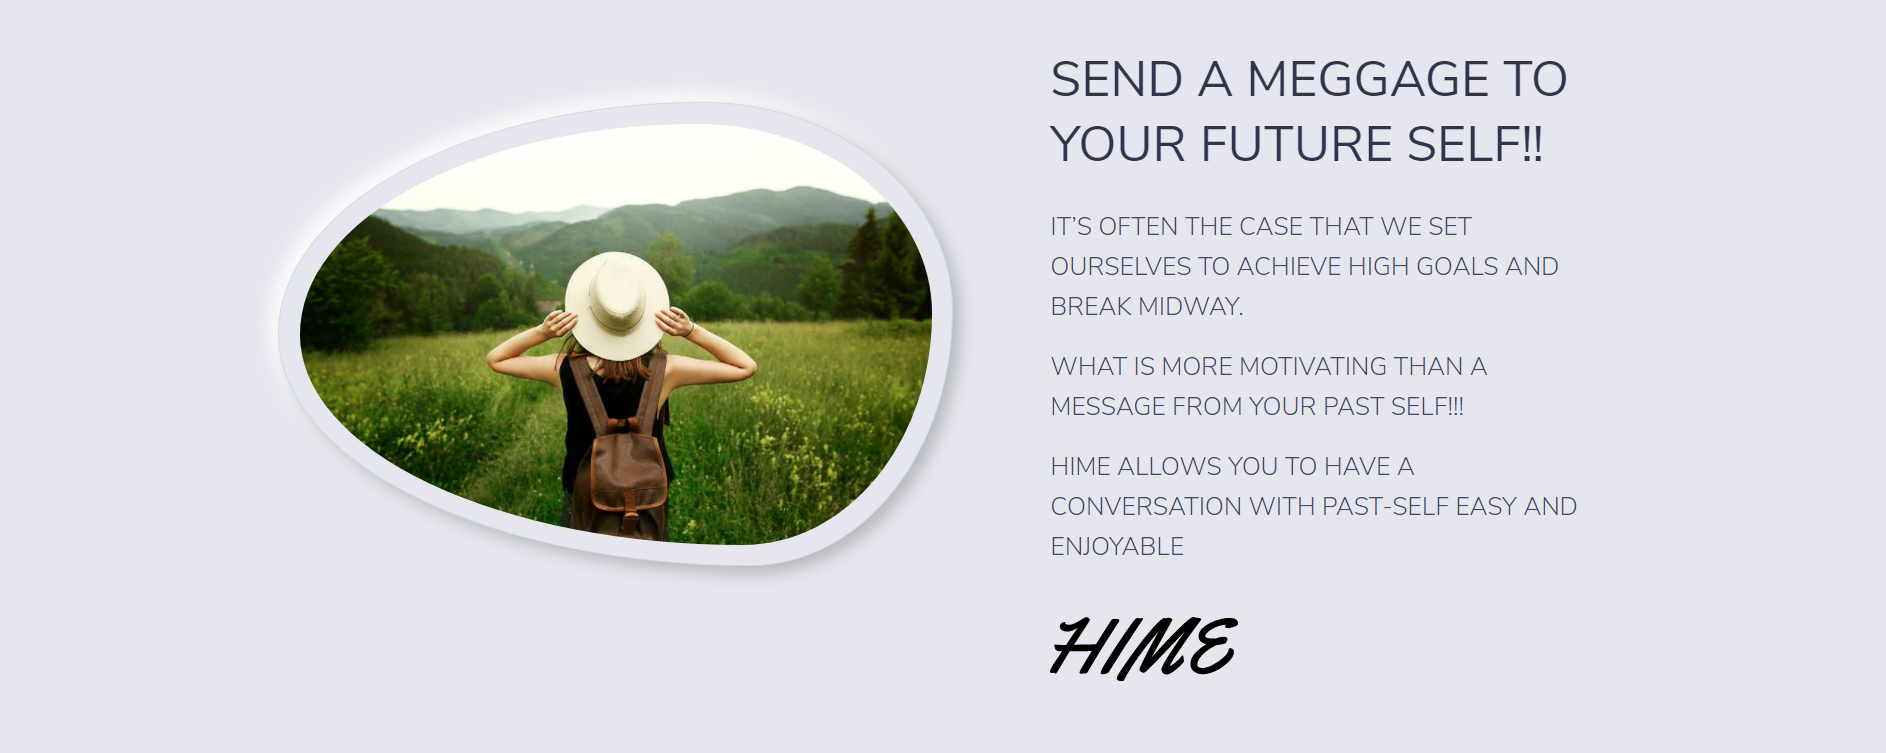
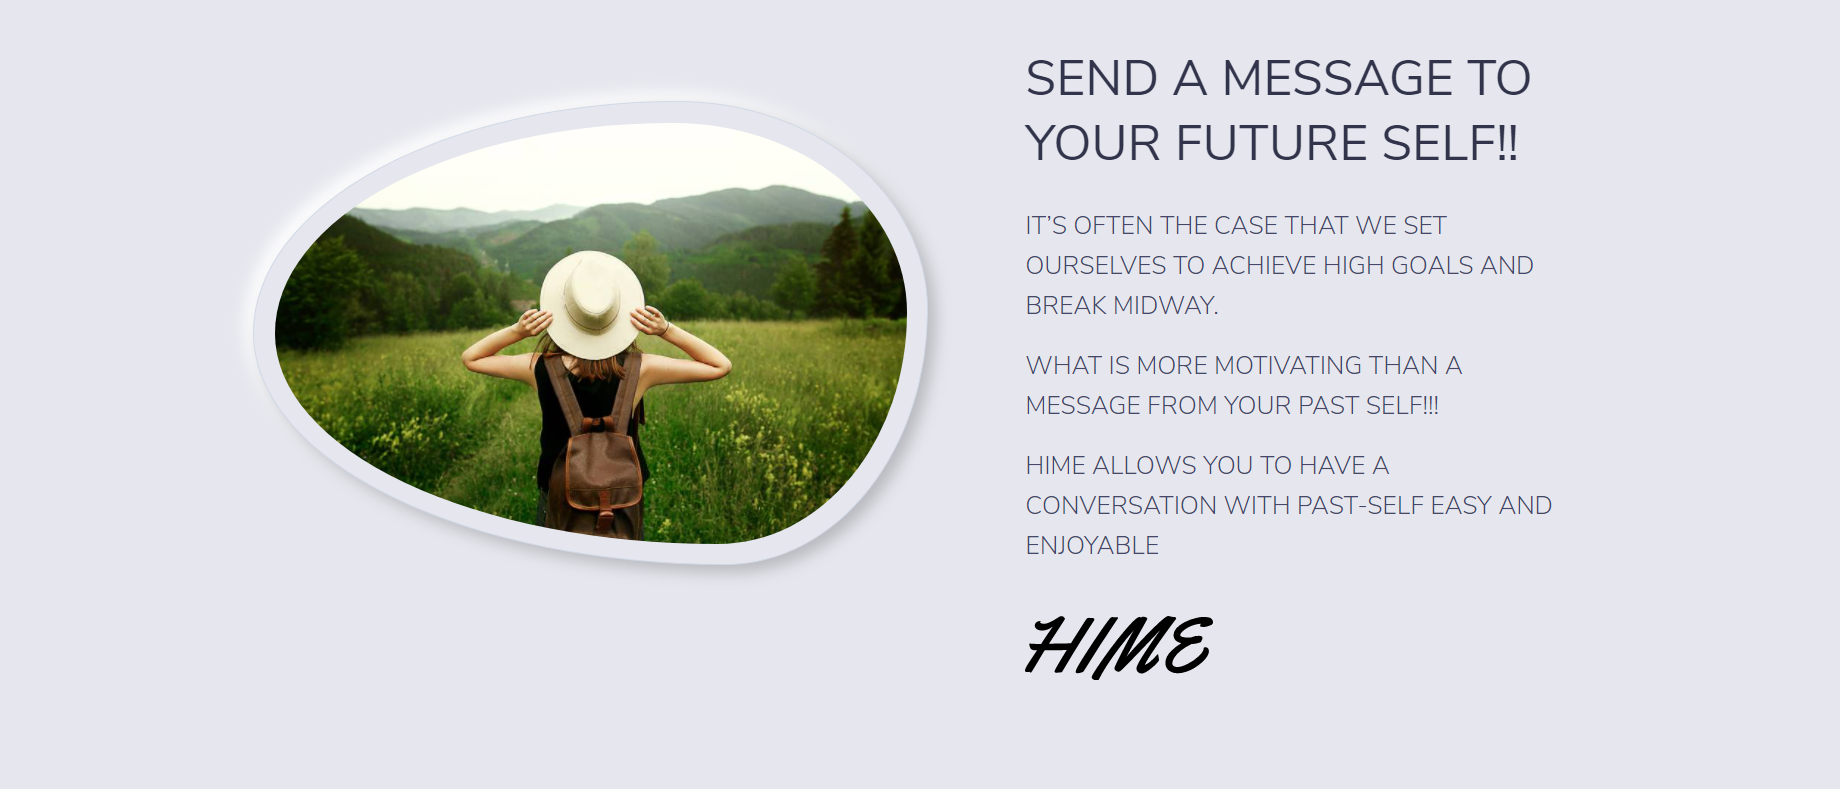
meggage to message

diff --git a/index.html b/index.html
@@ -28,7 +28,7 @@
 <meta name="twitter:site" content="@himefuture">
 <meta name="twitter:creator" content="@himefuture">
 <meta name="twitter:image:src" content="https://hime.pages.dev/hime_image.png">
-<meta name="title" content="HIME: SEND A MEGGAGE TO YOUR FUTURE SELF!!">
+<meta name="title" content="HIME: SEND A MESSAGE TO YOUR FUTURE SELF!!">
 <meta name="description" content="HIME ALLOWS YOU TO HAVE A CONVERSATION WITH PAST-SELF EASY AND ENJOYABLE">
 <meta name="keywords" content="message,future,email future,hime,HIME,send future mail,">
 <meta name="robots" content="index, follow">
@@ -67,7 +67,7 @@
                         </div>
                     </div>
                     <div class="col-md-6 col-xl-5 text-center text-md-left">
-                        <h2 class="h1 mb-4">SEND A MEGGAGE TO YOUR FUTURE SELF!!</h2>
+                        <h2 class="h1 mb-4">SEND A MESSAGE TO YOUR FUTURE SELF!!</h2>
                         <p class="lead">IT’S OFTEN THE CASE THAT WE SET OURSELVES TO ACHIEVE HIGH GOALS AND BREAK MIDWAY.</p>
                         <p class="lead">WHAT IS MORE MOTIVATING THAN A MESSAGE FROM YOUR PAST SELF!!!</p>
                         <p class = "lead">HIME ALLOWS YOU TO HAVE A CONVERSATION WITH PAST-SELF EASY AND ENJOYABLE
@@ -165,7 +165,7 @@ display:none">
                                     </div>
                                     <div class="btn-wrapper my-4 text-center">
                                        
-                                        <a class="twitter-share-button" href="https://twitter.com/intent/tweet?text=Hey! Check out HIME it lets you send message to your future self @himefuture https://hime.pages.dev
+                                        <a class="twitter-share-button" href="https://twitter.com/intent/tweet?text=Hey! Check out HIME it lets you send message to your future self    @himefuture  https://hime.pages.dev
                                         " target="_blank">
 
                                         <button class="btn btn-primary btn-icon-only text-twitter mr-2" type="button"
